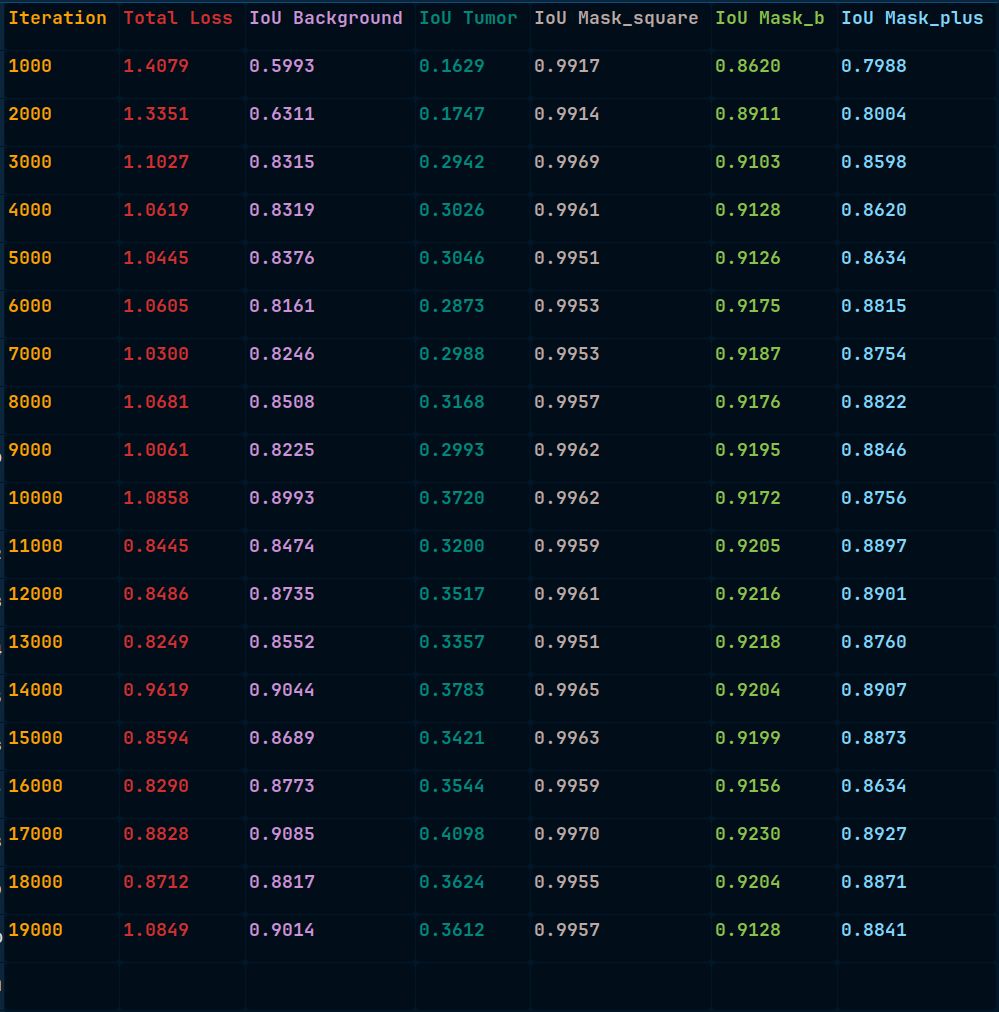
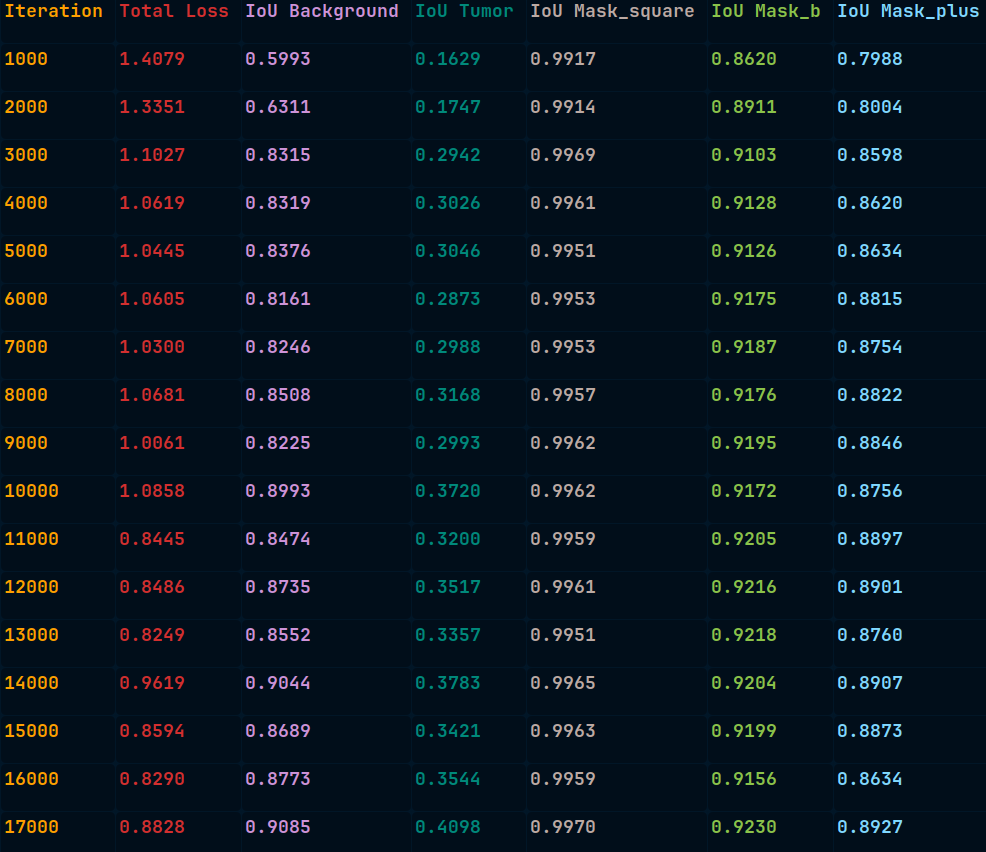
[README] Update README images

diff --git a/README.md b/README.md
@@ -125,13 +125,13 @@ At specific intervals (defined by `weight_saving_iterations` in your configurati
 The on-the-fly training logs will look like this:
 
 <p align="center">
-  <img src="README/on-fly-train-logs.png" width="70%" />
+  <img src="README/on-fly-train-logs.png" width="90%" />
 </p>
 
 Additionally, the inferred image samples generated for debugging will look like this:
 
 <p align="center">
-  <img src="README/infered-sample.png" width="90%" />
+  <img src="README/infered-sample.png" width="100%" />
 </p>
 
 Each row in the generated image corresponds to a specific class channel. From left to right, the five columns represent:
